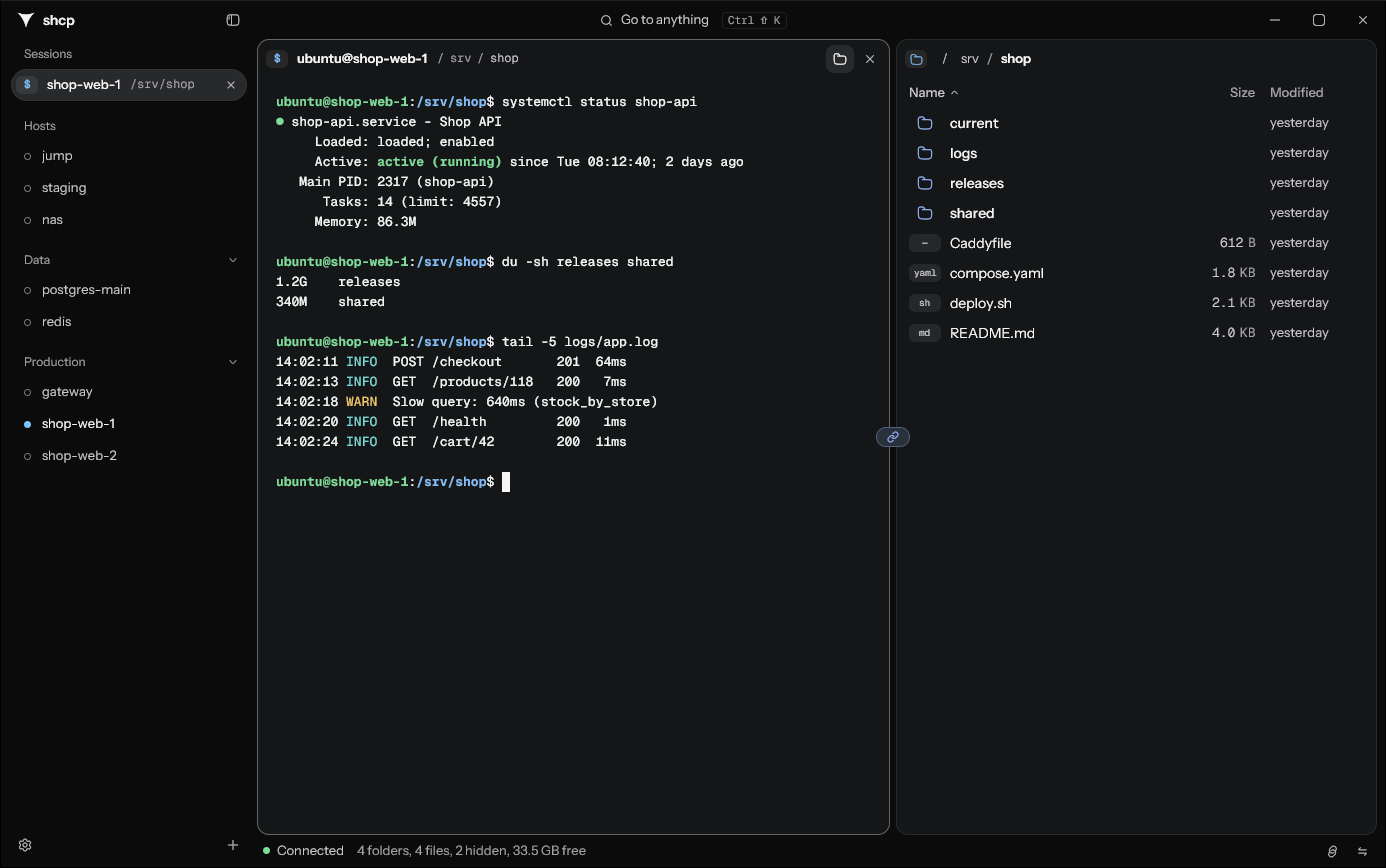
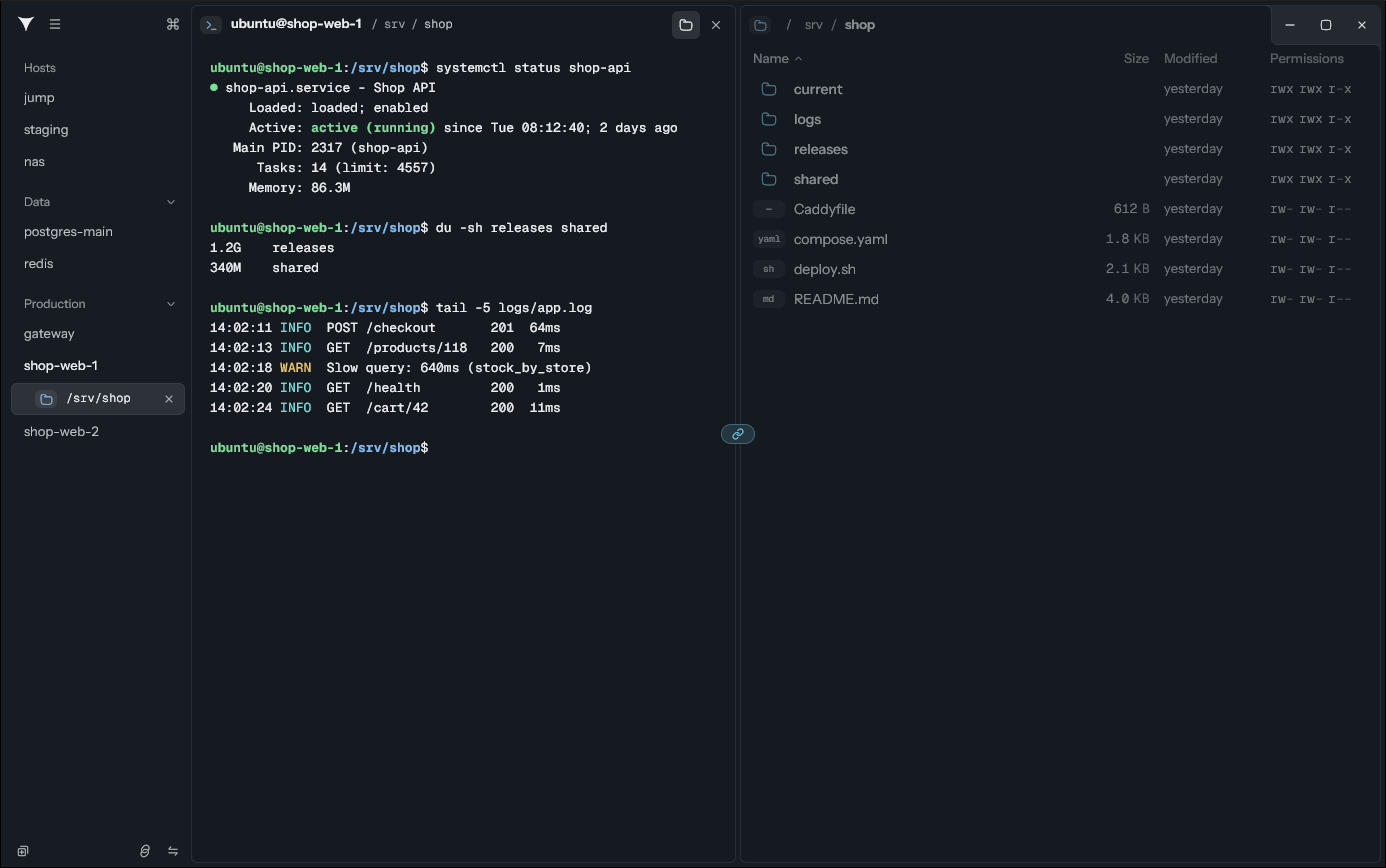
docs: new screenshot and readme

diff --git a/README.md b/README.md
@@ -21,7 +21,7 @@ themselves, and interrupted transfers resume where they stopped.
 It works with the SSH setup I already have. It reads `~/.ssh/config` (`Include`, `Match`,
 `ProxyJump`, `ProxyCommand`), uses my keys or the SSH agent, answers password and two-factor
 prompts, and runs every tab, port forward and SOCKS proxy over one connection per host. Hosts sit in
-groups in the sidebar, a command palette (Ctrl+Shift+K) takes me to any host, tab or command, and
+groups in the sidebar, a command palette (Ctrl+Shift+P) takes me to any host, tab or command, and
 themes come from [Open VSX](https://open-vsx.org) or VS Code. It is a single native `.exe`, drawn
 on the GPU with gpui, that updates itself.
 
